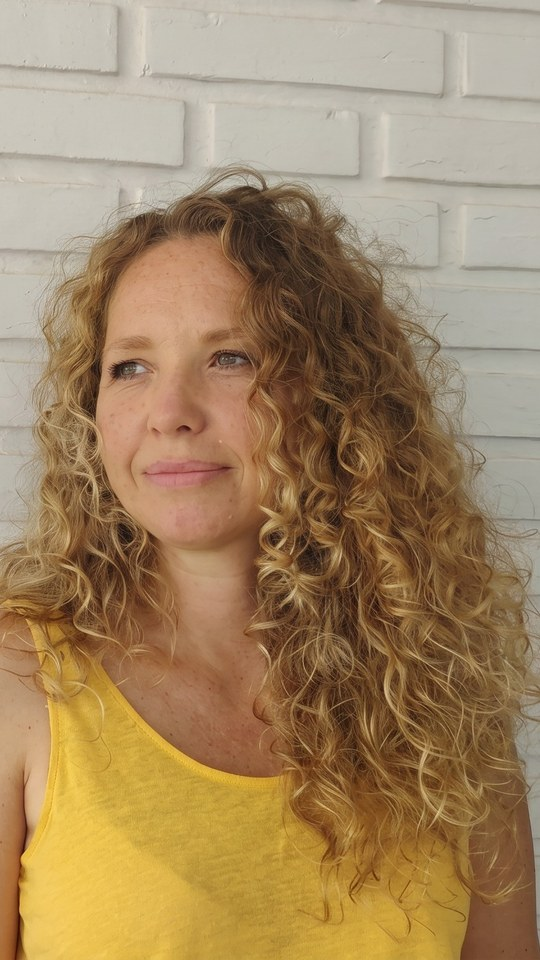
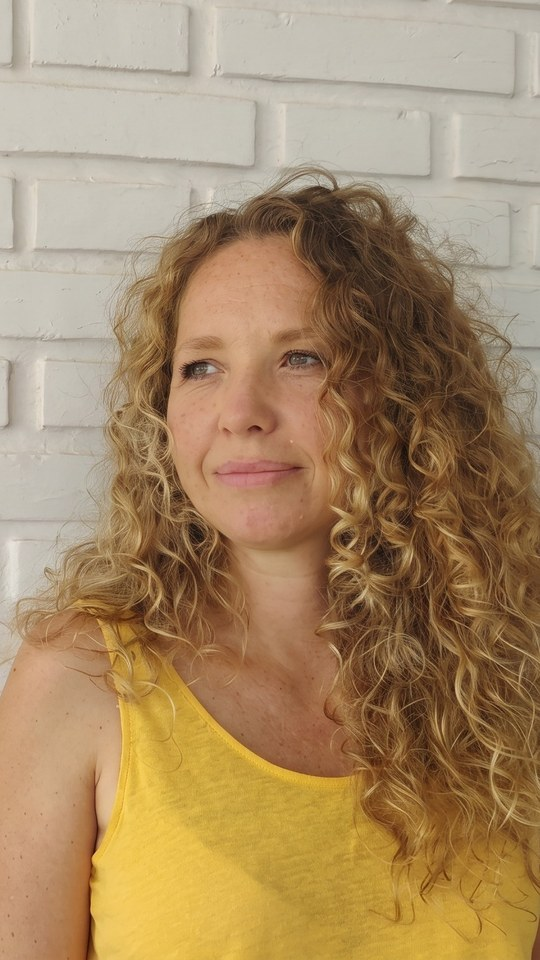
feat(hero): Sabrina weiter rechts – mehr Luft für Text auf Desktop & Mobile
- Desktop: object-position center_top → 80%_top, Gradient bis 75%
- Mobile portrait crop: face_pos_ratio 0.62 → 0.75
- Tablet crop: face_pos_ratio 0.55 → 0.70

diff --git a/index.html b/index.html
@@ -283,9 +283,9 @@
                 <div class="w-full h-full relative overflow-hidden">
                     <img src="https://page.gensparksite.com/v1/base64_upload/331e880532d9f7e6983b792d8a85b907" 
                          alt="Dr. med. Sabrina Kising - Online-Therapeutin für Trauma, Paar-Therapie und Sexualtherapie" 
-                         class="w-full h-full object-cover object-[center_top]">
+                         class="w-full h-full object-cover object-[80%_top]">
                     <!-- Lesbarkeits-Schleier: links für Text-Lesbarkeit, rechte Hälfte (Gesicht) bleibt kräftig -->
-                    <div class="absolute inset-0" style="background: linear-gradient(to right, rgba(255,255,255,0.92) 0%, rgba(255,255,255,0.7) 25%, rgba(255,255,255,0.15) 50%, rgba(255,255,255,0) 65%);"></div>
+                    <div class="absolute inset-0" style="background: linear-gradient(to right, rgba(255,255,255,0.92) 0%, rgba(255,255,255,0.7) 30%, rgba(255,255,255,0.15) 58%, rgba(255,255,255,0) 75%);"></div>
                 </div>
             </div>
             
